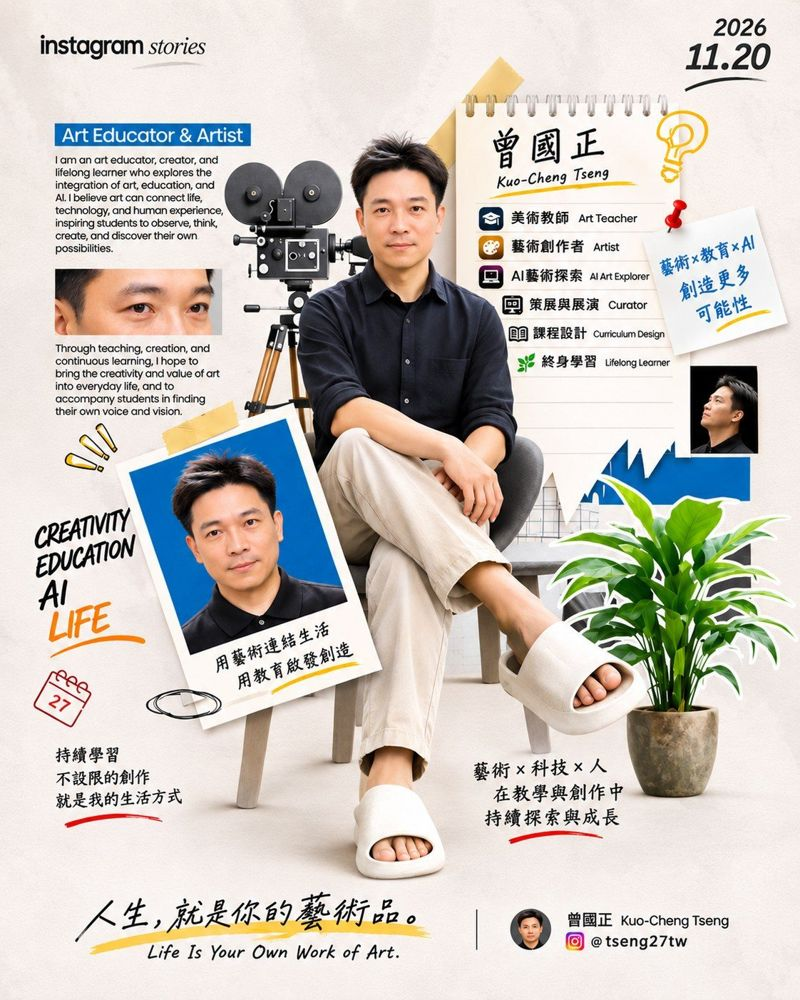
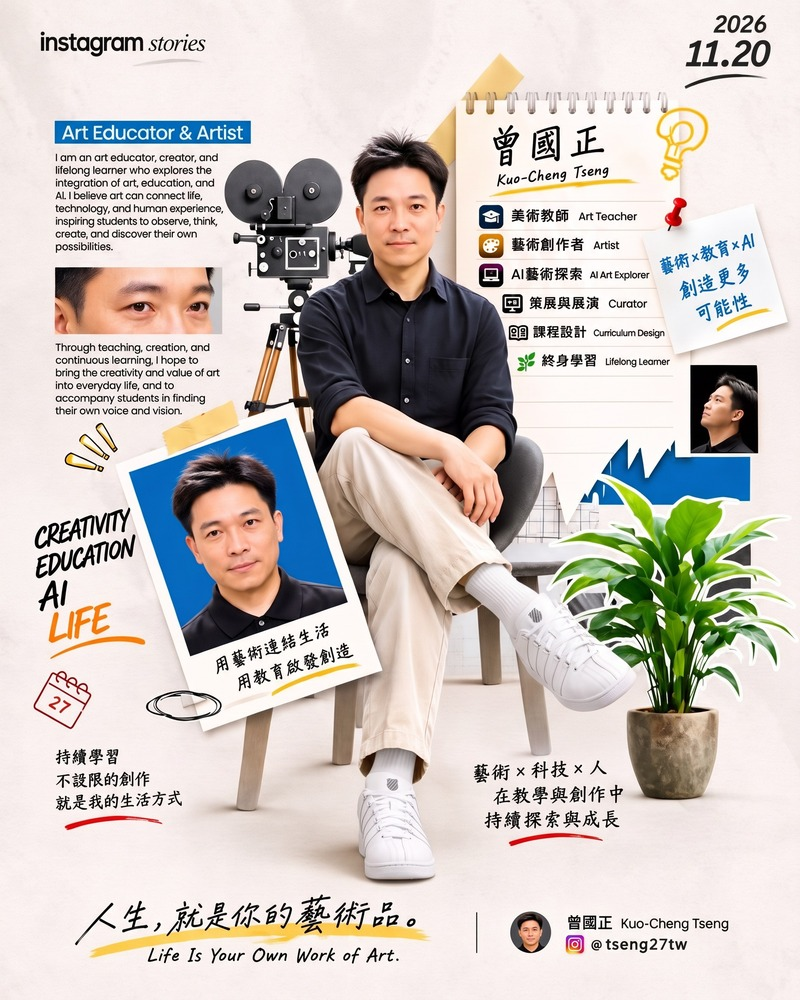
封面海報拖鞋換成 K-Swiss 經典款
Claude-Session: https://claude.ai/code/session_01Xir6559eHGFEZcY9vKmxQt

diff --git a/HANDOFF_LOG.md b/HANDOFF_LOG.md
@@ -2,6 +2,11 @@
 
 新紀錄加在最上方。格式見 AGENTS.md 第 8 節。任何 AI 接手前先讀最上方三筆；結束前新增一筆。
 
+## 2026-11-28 19:05 Claude：封面海報拖鞋換成 K-Swiss 經典款
+
+- 講者：把介紹圖（IG 海報）裡的拖鞋改成 K-Swiss 經典款。img/cover-me.jpg 換成 AI 修圖版（Krea nano-banana-pro，只改鞋，文字與構圖不變）；原圖可從 git 歷史取回。
+- 是否已同步 artifact-source.html／已發布：是（只換圖檔）
+
 ## 2026-11-28 16:10 Claude：移除 GoatCounter 後台分析
 
 - 講者：「那就不用後台分析」。刪除 CONFIG.stats.goatcounter 與載入 gc.zgo.at 的程式；左下角瀏覽人次（Abacus）保留。
